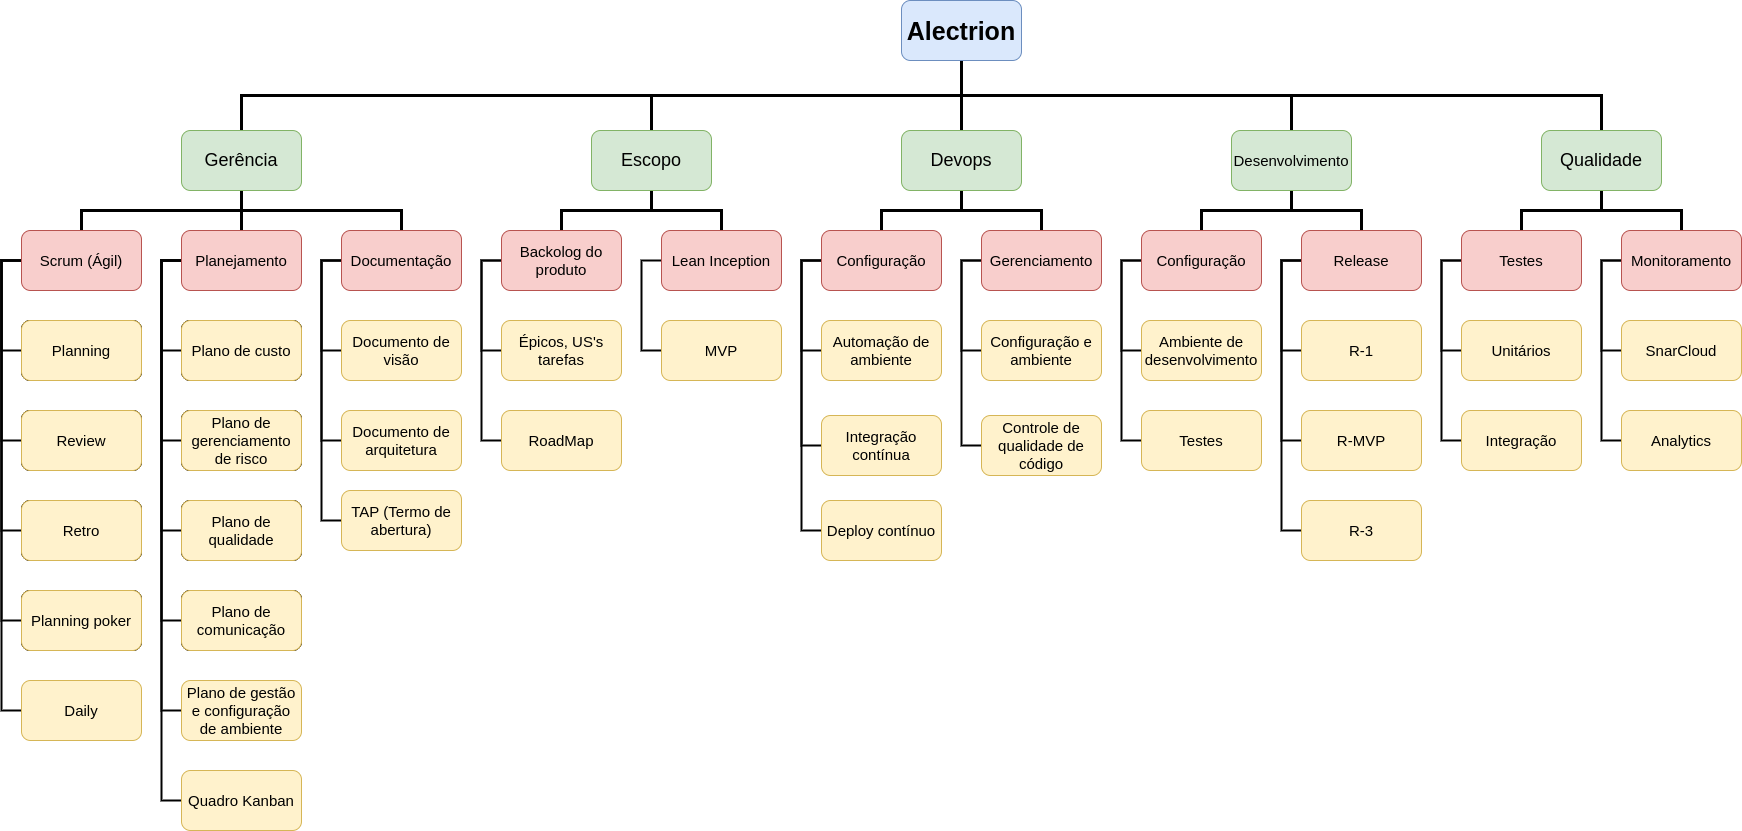
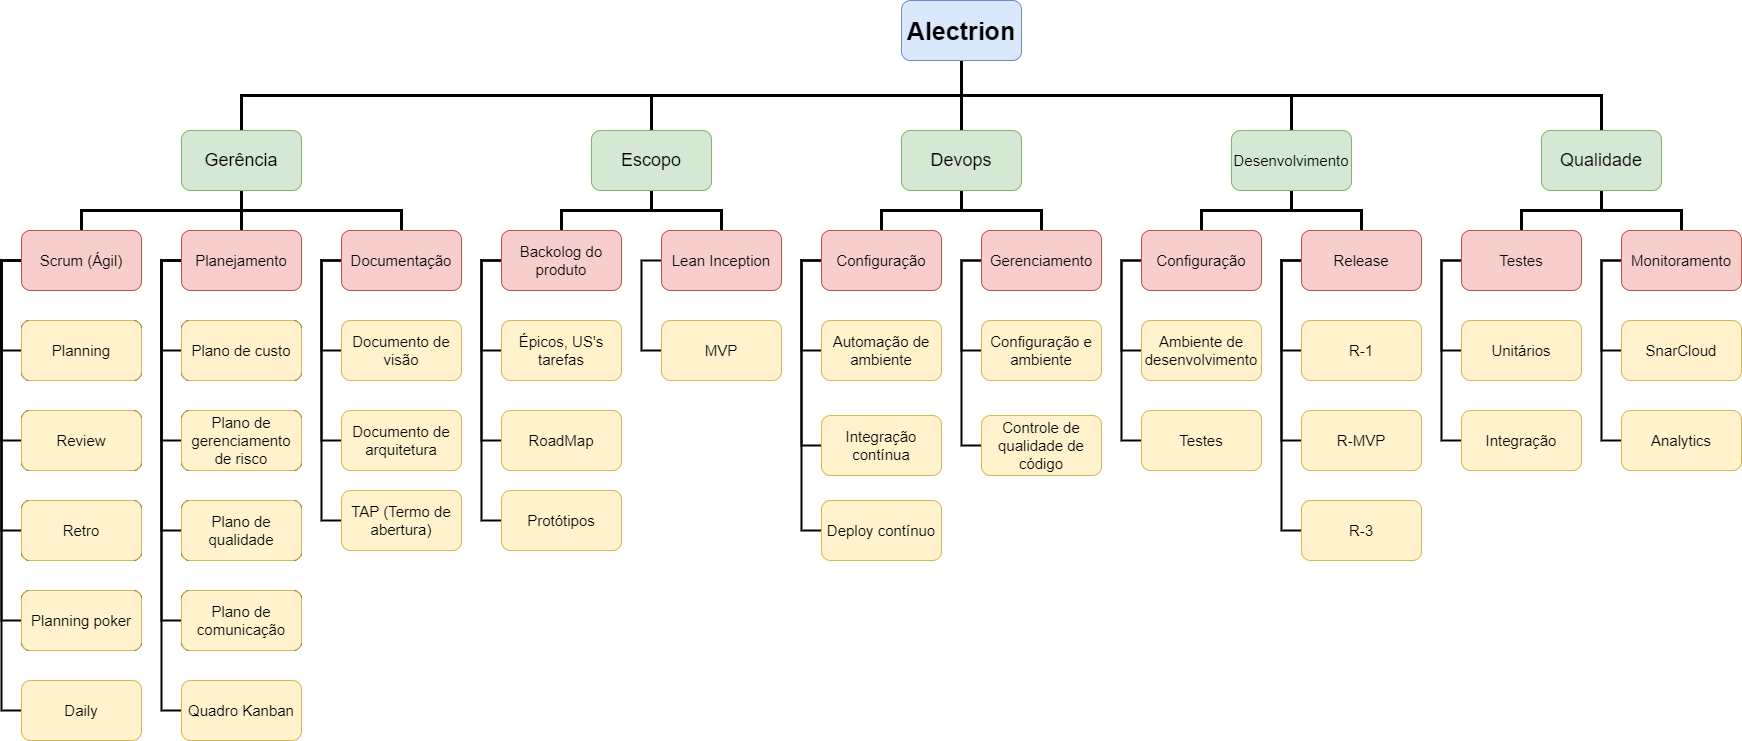
#27 docs: atualiza imagem da eap

Changed region(s): [[0.0, 0.031, 1.0, 1.0]]

diff --git a/docs/Documentos/eap.md b/docs/Documentos/eap.md
@@ -27,7 +27,8 @@ A imagem 1 abaixo mostra a EAP para o projeto Alectrion.
 
 ## 4. Histórico de versão
 
-|**Data**|**Descrição**|**Autore(es)**|
+|**Data**|**Descrição**|**Autor(es)**|
 |--------|-------------|--------------|
 |27/11/2022| Criação do documento | João Vitor |
 |28/11/2022| Revisão inicial do documento | Erick Giffoni |
+|09/12/2022| Atualização da imagem da EAP | João Vitor |

diff --git a/docs/templa-documento.md b/docs/templa-documento.md
@@ -24,6 +24,6 @@ parent: Documentos
 
 ## 4. Histórico de versão
 
-|**Data**|**Descrição**|**Autore(es)**|
+|**Data**|**Descrição**|**Autor(es)**|
 |--------|-------------|--------------|
 |01/01/2022| Criação do documento | Alguém |
